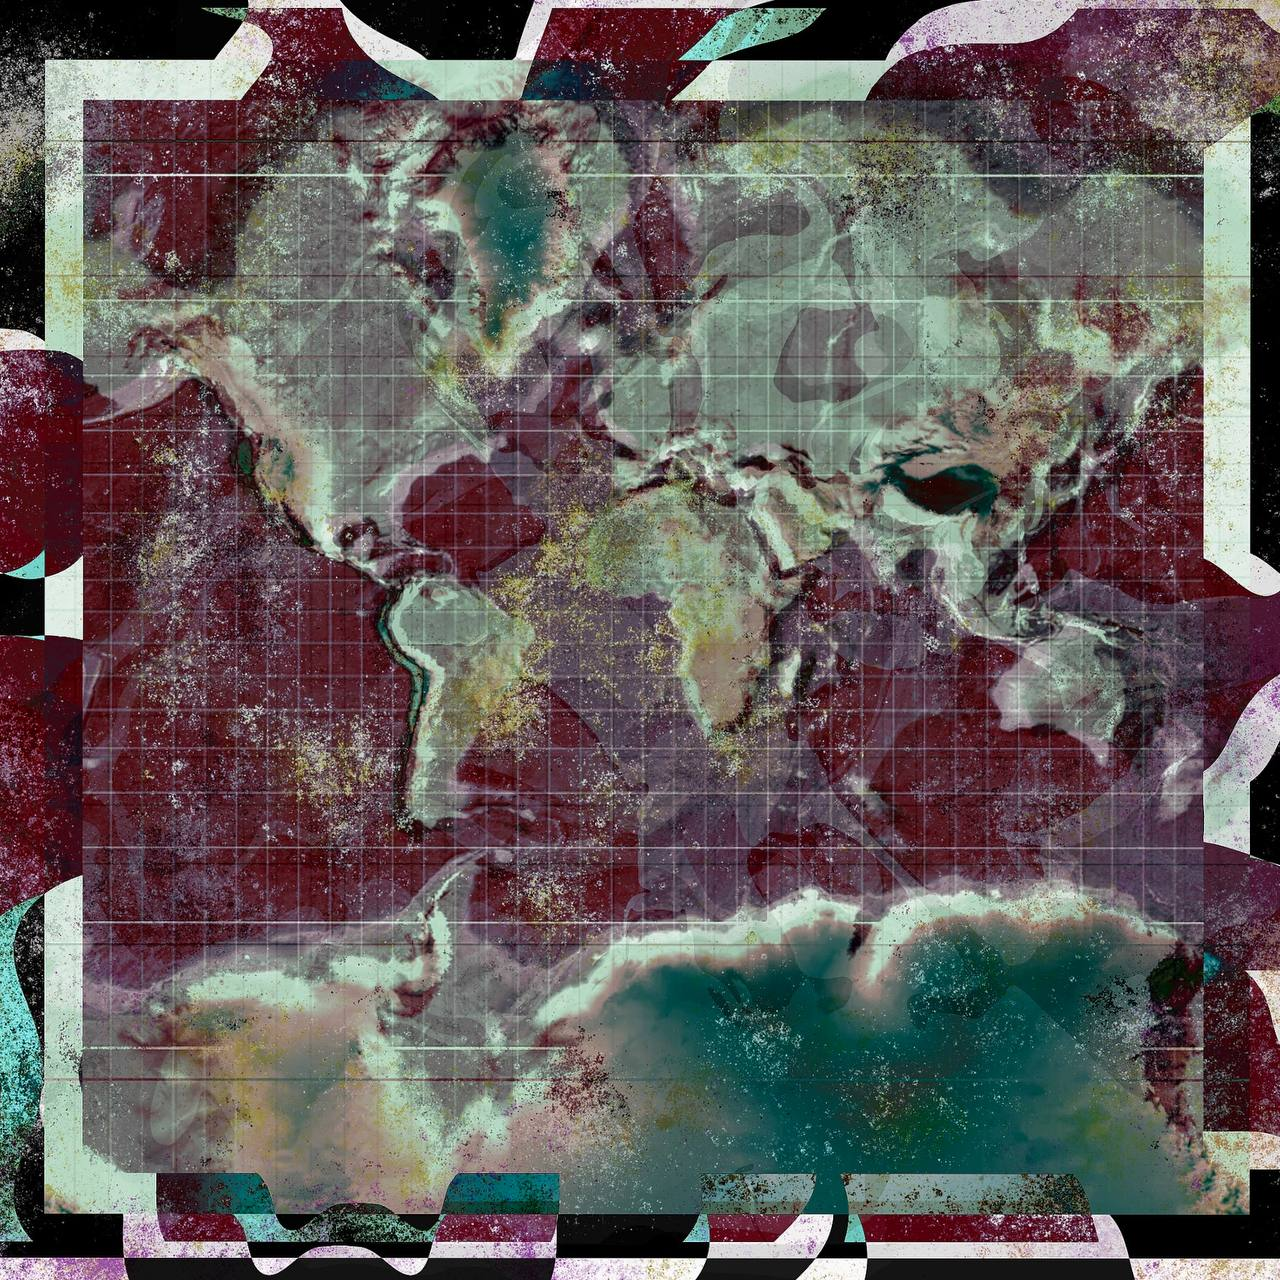
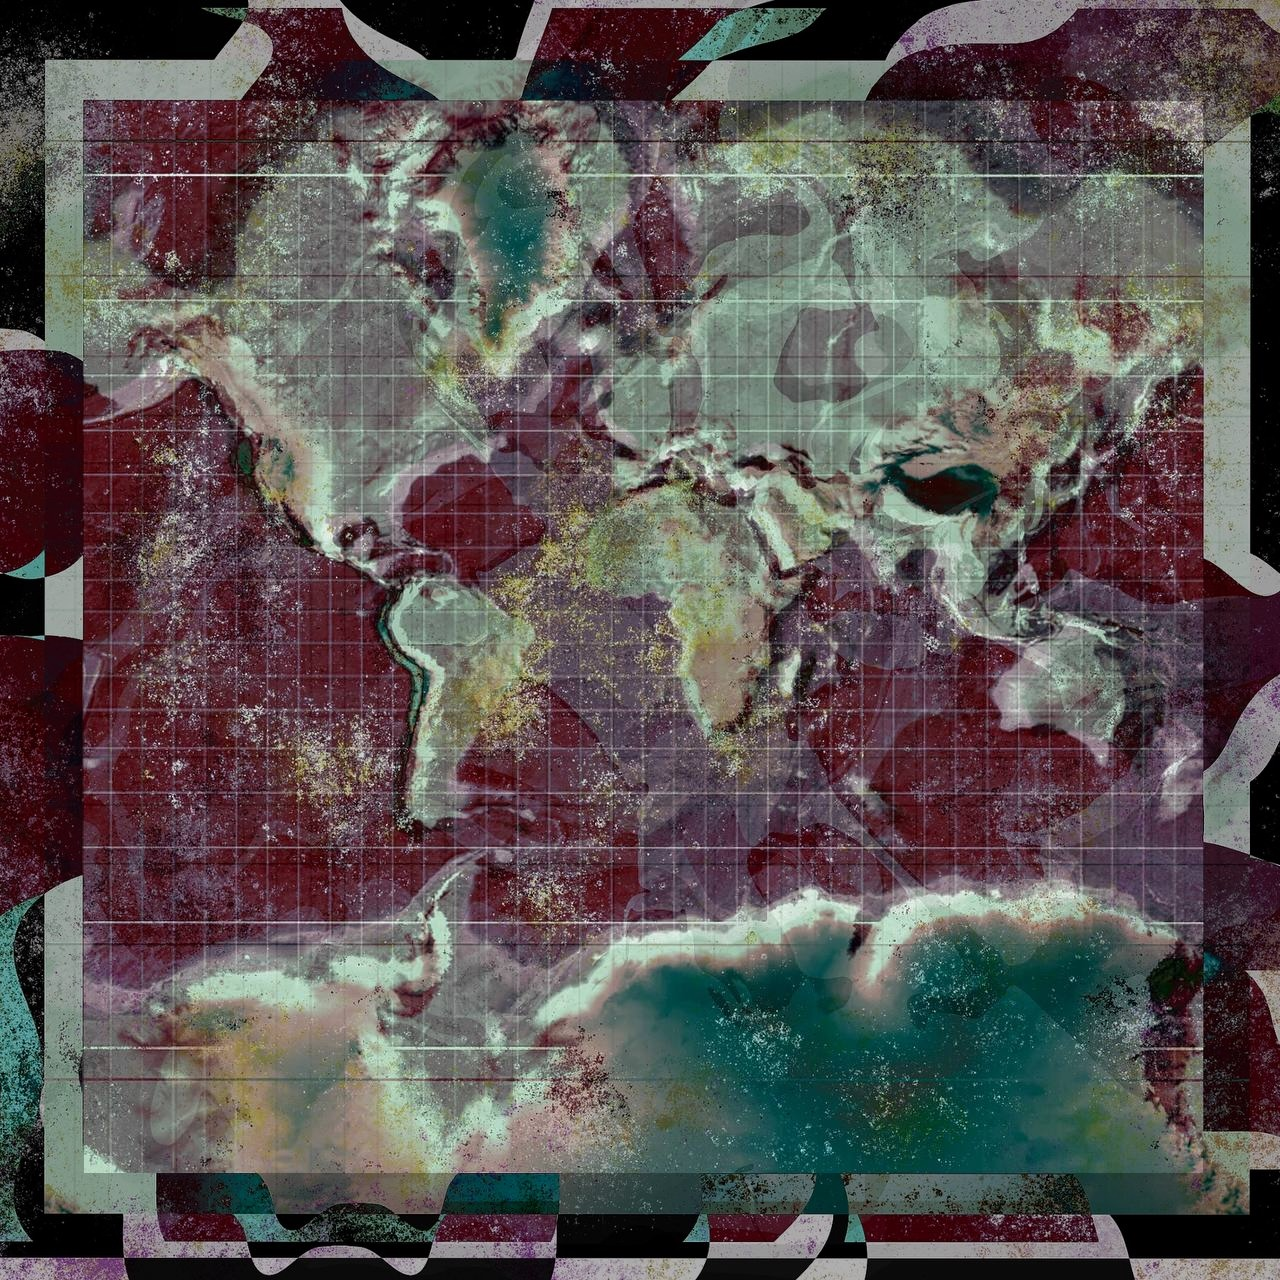
map aligned

Changed region(s): [[0.0, 0.0, 1.0, 1.0]]

diff --git a/src/map/MapView.tsx b/src/map/MapView.tsx
@@ -1,4 +1,4 @@
-import { useEffect, useRef } from 'react'
+import { useEffect, useRef, useState } from 'react'
 import maplibregl from 'maplibre-gl'
 
 interface Props {
@@ -8,6 +8,7 @@ interface Props {
 export default function MapView({ onMapReady }: Props) {
   const containerRef = useRef<HTMLDivElement>(null)
   const mapRef = useRef<maplibregl.Map | null>(null)
+  const [coords, setCoords] = useState<{ lng: number; lat: number } | null>(null)
 
   useEffect(() => {
     if (!containerRef.current || mapRef.current) return
@@ -40,13 +41,14 @@ export default function MapView({ onMapReady }: Props) {
       // Add the world map jpg as a geographic image source
       map.addSource('world-map', {
         type: 'image',
-        url: '/wordl-map-v1.jpg',
+        url: '/MapClean_cropped.png',
         // Corners: [lng, lat] — top-left, top-right, bottom-right, bottom-left
+        // Bounds calibrated from readout measurements (83.7 / -84.8 minimises residuals)
         coordinates: [
-          [-180, 85],
-          [180, 85],
-          [180, -85],
-          [-180, -85],
+          [-180, 83.7],
+          [180,  83.7],
+          [180,  -84.8],
+          [-180, -84.8],
         ],
       })
 
@@ -83,8 +85,16 @@ export default function MapView({ onMapReady }: Props) {
         }
       })
 
+      // Fit the full world map image bounds to the container with no padding
+      map.fitBounds([[-180, -84.8], [180, 83.7]], { padding: 0, animate: false })
+
       onMapReady?.(map)
     })
+
+    map.on('mousemove', (e) => {
+      setCoords({ lng: e.lngLat.lng, lat: e.lngLat.lat })
+    })
+    map.on('mouseleave', () => setCoords(null))
 
     mapRef.current = map
 
@@ -98,6 +108,24 @@ export default function MapView({ onMapReady }: Props) {
     <div
       ref={containerRef}
       style={{ width: '100%', height: '100%', position: 'absolute', inset: 0 }}
-    />
+    >
+      {coords && (
+        <div style={{
+          position: 'absolute',
+          bottom: 8,
+          left: 8,
+          zIndex: 20,
+          background: 'rgba(0,0,0,0.65)',
+          color: '#fff',
+          fontFamily: 'monospace',
+          fontSize: 12,
+          padding: '4px 8px',
+          borderRadius: 4,
+          pointerEvents: 'none',
+        }}>
+          {coords.lng.toFixed(4)}°, {coords.lat.toFixed(4)}°
+        </div>
+      )}
+    </div>
   )
 }

diff --git a/src/App.tsx b/src/App.tsx
@@ -2,6 +2,7 @@ import { useState, useCallback } from 'react'
 import type maplibregl from 'maplibre-gl'
 import MapView from './map/MapView'
 import PixiOverlay from './pixi/PixiOverlay'
+import { MAP_WINDOW } from './config/mapLayout'
 
 export default function App() {
   const [map, setMap] = useState<maplibregl.Map | null>(null)
@@ -12,8 +13,35 @@ export default function App() {
 
   return (
     <div style={{ width: '100vw', height: '100vh', position: 'relative', overflow: 'hidden' }}>
-      <MapView onMapReady={handleMapReady} />
-      <PixiOverlay map={map} />
+      {/* Decorative frame — sits on top; white center disappears via multiply blend */}
+      <img
+        src="/frame.png"
+        alt=""
+        style={{
+          position: 'absolute',
+          inset: 0,
+          width: '100%',
+          height: '100%',
+          objectFit: 'fill',
+          zIndex: 10,
+          pointerEvents: 'none',
+          mixBlendMode: 'multiply',
+        }}
+      />
+      {/* Map window — covers the frame's white center cutout */}
+      <div
+        style={{
+          position: 'absolute',
+          zIndex: 1,
+          left: MAP_WINDOW.left,
+          top: MAP_WINDOW.top,
+          width: MAP_WINDOW.width,
+          height: MAP_WINDOW.height,
+        }}
+      >
+        <MapView onMapReady={handleMapReady} />
+        <PixiOverlay map={map} />
+      </div>
     </div>
   )
 }

diff --git a/src/pixi/PixiOverlay.tsx b/src/pixi/PixiOverlay.tsx
@@ -17,11 +17,14 @@ export default function PixiOverlay({ map }: Props) {
 
     const app = new Application()
 
+    const mapContainer = map.getContainer()
+    const { width: initWidth, height: initHeight } = mapContainer.getBoundingClientRect()
+
     app
       .init({
         canvas,
-        width: window.innerWidth,
-        height: window.innerHeight,
+        width: initWidth,
+        height: initHeight,
         backgroundAlpha: 0, // transparent — map shows through
         antialias: true,
         autoDensity: true,
@@ -37,7 +40,8 @@ export default function PixiOverlay({ map }: Props) {
         map.on('render', onMapRender)
 
         const onResize = () => {
-          app.renderer.resize(window.innerWidth, window.innerHeight)
+          const { width, height } = map.getContainer().getBoundingClientRect()
+          app.renderer.resize(width, height)
         }
         window.addEventListener('resize', onResize)
 

diff --git a/src/config/mapLayout.ts b/src/config/mapLayout.ts
@@ -1,0 +1,9 @@
+// Position and size of the map window within the full viewport.
+// Derived from the transparent cutout in frame.png (1490x1117):
+//   cutout pixel bounds: (242, 60) → (1266, 1048)
+export const MAP_WINDOW = {
+  left: '16.24%',   // 242 / 1490
+  top: '5.37%',     // 60  / 1117
+  width: '68.72%',  // 1024 / 1490
+  height: '88.45%', // 988  / 1117
+} as const

diff --git a/README.md b/README.md
@@ -1,73 +1,48 @@
-# React + TypeScript + Vite
+# simulation-frontend
 
-This template provides a minimal setup to get React working in Vite with HMR and some ESLint rules.
-
-Currently, two official plugins are available:
-
-- [@vitejs/plugin-react](https://github.com/vitejs/vite-plugin-react/blob/main/packages/plugin-react) uses [Oxc](https://oxc.rs)
-- [@vitejs/plugin-react-swc](https://github.com/vitejs/vite-plugin-react/blob/main/packages/plugin-react-swc) uses [SWC](https://swc.rs/)
-
-## React Compiler
-
-The React Compiler is not enabled on this template because of its impact on dev & build performances. To add it, see [this documentation](https://react.dev/learn/react-compiler/installation).
-
-## Expanding the ESLint configuration
-
-If you are developing a production application, we recommend updating the configuration to enable type-aware lint rules:
-
-```js
-export default defineConfig([
-  globalIgnores(['dist']),
-  {
-    files: ['**/*.{ts,tsx}'],
-    extends: [
-      // Other configs...
-
-      // Remove tseslint.configs.recommended and replace with this
-      tseslint.configs.recommendedTypeChecked,
-      // Alternatively, use this for stricter rules
-      tseslint.configs.strictTypeChecked,
-      // Optionally, add this for stylistic rules
-      tseslint.configs.stylisticTypeChecked,
-
-      // Other configs...
-    ],
-    languageOptions: {
-      parserOptions: {
-        project: ['./tsconfig.node.json', './tsconfig.app.json'],
-        tsconfigRootDir: import.meta.dirname,
-      },
-      // other options...
-    },
-  },
-])
+## User-Interactions 
+We suggest having a user-json looking sth like this: 
 ```
-
-You can also install [eslint-plugin-react-x](https://github.com/Rel1cx/eslint-react/tree/main/packages/plugins/eslint-plugin-react-x) and [eslint-plugin-react-dom](https://github.com/Rel1cx/eslint-react/tree/main/packages/plugins/eslint-plugin-react-dom) for React-specific lint rules:
-
-```js
-// eslint.config.js
-import reactX from 'eslint-plugin-react-x'
-import reactDom from 'eslint-plugin-react-dom'
-
-export default defineConfig([
-  globalIgnores(['dist']),
-  {
-    files: ['**/*.{ts,tsx}'],
-    extends: [
-      // Other configs...
-      // Enable lint rules for React
-      reactX.configs['recommended-typescript'],
-      // Enable lint rules for React DOM
-      reactDom.configs.recommended,
-    ],
-    languageOptions: {
-      parserOptions: {
-        project: ['./tsconfig.node.json', './tsconfig.app.json'],
-        tsconfigRootDir: import.meta.dirname,
-      },
-      // other options...
-    },
-  },
-])
+{
+  "user_key": <String>, 
+  "bloc": {
+    "name": <String> 
+    "write": <bool> // if true, can create and modify `Bases`
+  }, 
+  "zone": {
+    "name": <String> 
+    "write": <bool> // if true, can create and modify `Trusts`
+  }
+}
 ```
+The `user_key` should be part of all request headers.
+
+#### Creating Trusts
+When selecting a `Placement`, if a user has "write" access for the `Zone` the placement is associated with, the user can: 
+- suggest "financiers" who help finance the expenses for the `Trust` to a certain percentage (=> input fields: financier key (text), percentage (number))
+- multiple financiers possible
+- => create the `Trust`
+
+API:
+- `POST /api/trusts` (payload: `{placementId: <placement_id>,  payment: {financierId: <financier_id (str)>, percentage: <value (int)>}`)
+
+#### Creating Bases 
+When selecting a `Placement`, if a user has "write" access for the `Bloc` the placement is associated with, the user can: 
+- suggest "financiers" who help finance the expenses for the `Base` to a certain percentage (=> input fields: financier key (text), percentage (number))
+- multiple financiers possible
+- => create the `Base`
+
+API: 
+- `POST /api/bases` (payload: `{placementId: <placement_id>,  payment: {financierId: <financier_id (str)>, percentage: <value (int)>}`)
+
+#### Updating Bases
+When selecting a `Base`, if a user has "write" access for the `Bloc` the base is associated with, the user can: 
+- activate/deactivate the base (checkbox)
+- prioritise the `Base` (checkbox)
+  
+API: 
+- `PATCH /api/bases/{id}` Payload: `{(optional) prioritized: <true|false>, (optional) target: <trust|base>}`
+
+#### Changing Laws (Enhancement)
+When selecting a `Zone`, if a user has "write" access for the `Zone`, the user can: 
+- select from a list of "social laws" and implement/ or withdraw them

diff --git a/mapFeedback.md b/mapFeedback.md
@@ -1,0 +1,11 @@
+# Feedback on World Map
+
+## Seperate Layers
+
+Es wäre deutlich besser, wenn ich die verschiedenen Teilelemente der Map als möglichst viele einzelne Layers habe. Also auf jeden Fall drei Layer für Rahmen, Actual Map und FX. Die Layer sollten transparent sein, wo kein Content ist.
+
+### Rahmen
+
+Beim Rahmen wäre es super, wenn der 
+
+![World Map Frame only]